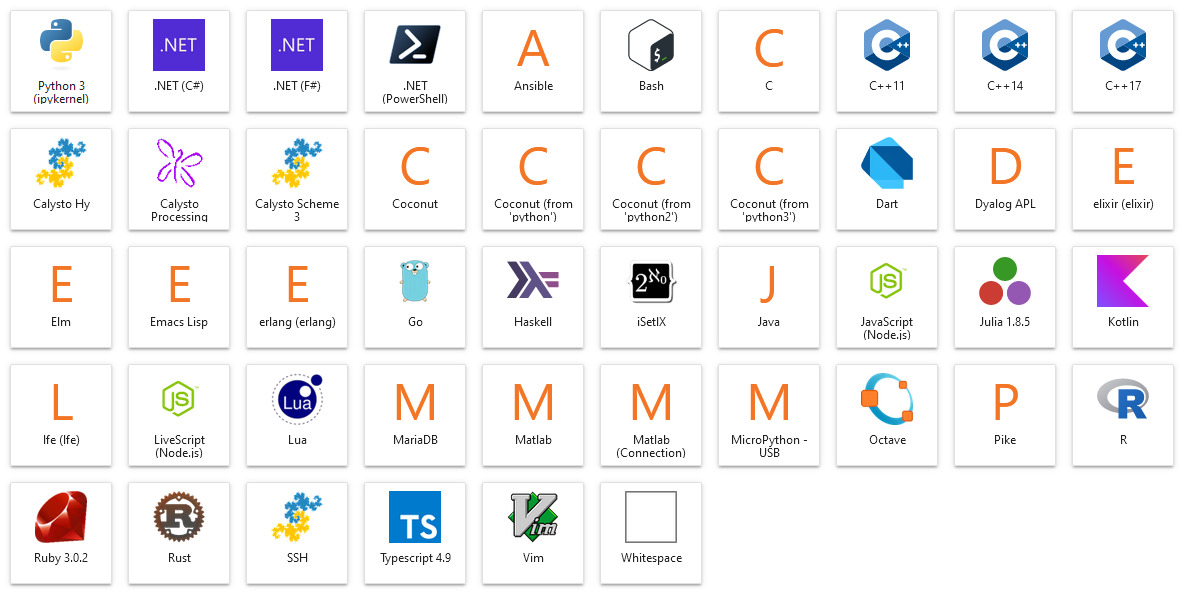
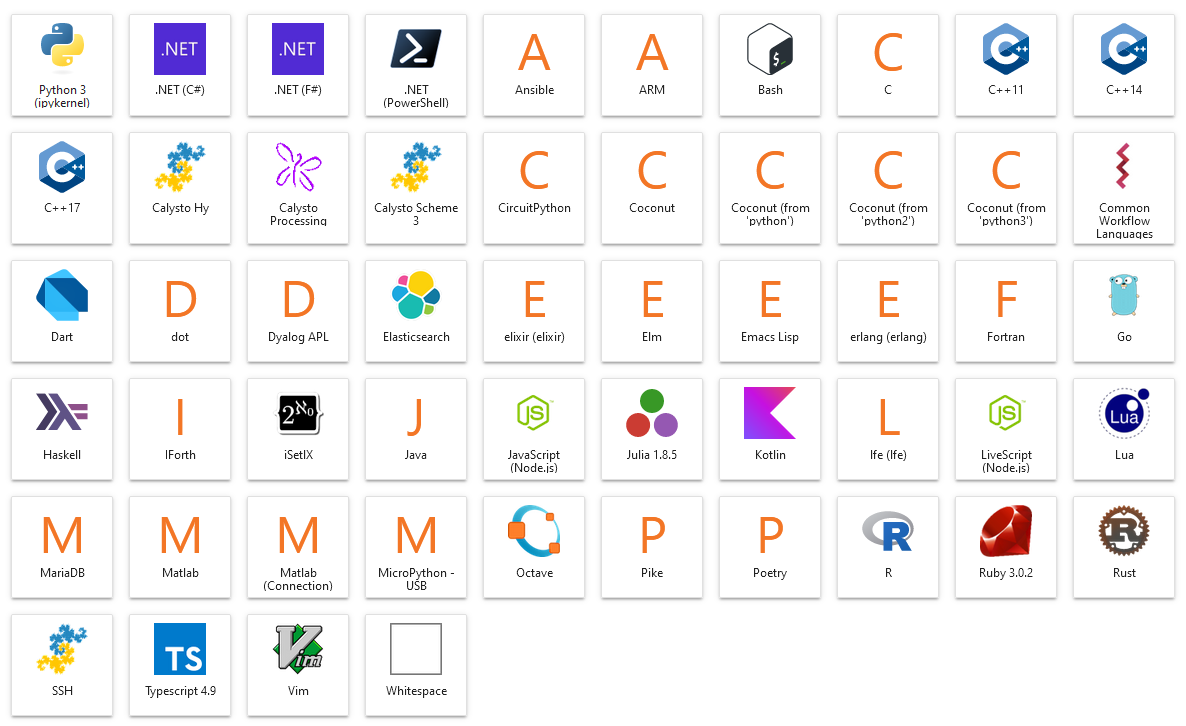
more kernels

diff --git a/README.md b/README.md
@@ -45,6 +45,12 @@ Ultra-Jupyter is a pre-configured version of [JupyterHub](https://jupyter.org/hu
   - Ansible 
   - Michelson
   - Common Workflow Language
+  - Dot
+  - CircuitPython
+  - Fortran
+  - Forth
+  - Poetry
+  - Elasticsearch
 
 ![kernels](kernels.png)
 
@@ -129,5 +135,11 @@ Some notable projects that were used:
 - [almond](https://github.com/almond-sh/almond)
 - [michelson-kernel](https://github.com/baking-bad/michelson-kernel)
 - [common-workflow-language](https://github.com/giannisdoukas/CWLJNIKernel)
+- [jupyter-dot-kernel](https://github.com/laixintao/jupyter-dot-kernel)
+- [jupyter-fortran-kernel](https://github.com/ZedThree/jupyter-fortran-kernel/)
+- [elasticsearch-kernel](https://github.com/Hourout/elasticsearch_kernel)
+- [iForth](https://github.com/sohang3112/iforth)
+- [poetry-kernel](https://github.com/pathbird/poetry-kernel)
+
 
 many many more...
